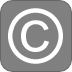
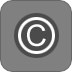
Updated Imprint button, added Color button

diff --git a/index.html b/index.html
@@ -74,10 +74,8 @@
   <img id="sections"    title="Enable Plane Sections"  src="skins/banquetscene/sections.png"/><br/>
 <!--SECTIONS-->
 <!--COLOR-->
-<!--
-  <img id="color_on"    title="Disable Solid Color"    src="skins/banquetscene/color_on.png" style="position:absolute; visibility:hidden;"/>
-  <img id="color"       title="Enable Solid Color"     src="skins/banquetscene/color.png"/><br/>
--->
+  <img id="color_on"    title="Disable Color Reconstruction"    src="skins/banquetscene/color_on.png" style="position:absolute; visibility:hidden;"/>
+  <img id="color"       title="Enable Color Reconstruction"     src="skins/banquetscene/color.png"/><br/>
 <!--COLOR-->
 <!--CAMERA-->
 <!--
@@ -401,9 +399,9 @@ function actionsToolbar(action) {
 //--CAMERA--
   //--else if(action=='perspective' || action=='orthographic') { presenter.toggleCameraType(); cameraSwitch(); }
 //--CAMERA--
-//--COLOR--
-	//--else if(action=='color' || action=='color_on') { presenter.toggleInstanceSolidColor(HOP_ALL, true); colorSwitch(); }
-//--COLOR--
+--COLOR--
+	--else if(action=='color' || action=='color_on') { colorSwitch(); }
+--COLOR--
 //--MEASURE--
 	else if(action=='measure' || action=='measure_on') { presenter.enableMeasurementTool(!presenter.isMeasurementToolEnabled()); measureSwitch(); }
 //--MEASURE--

diff --git a/stylesheet/banquet.css b/stylesheet/banquet.css
@@ -19,7 +19,7 @@ along with this program.  If not, see <http://www.gnu.org/licenses/>.
 
 .text-box {
   width: 30%;
-  position: absolute; top: 10px; left: 128px;
+  position: absolute; top: 648px; left: 10px;
   /*margin: auto;*/
 
   background: rgba(0, 0, 0, 0.2);
